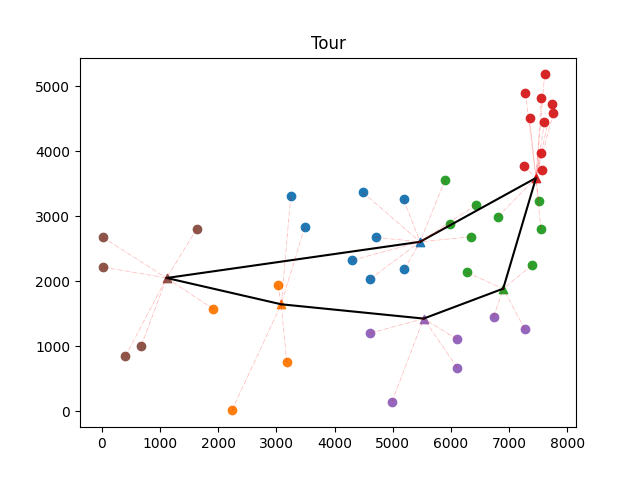
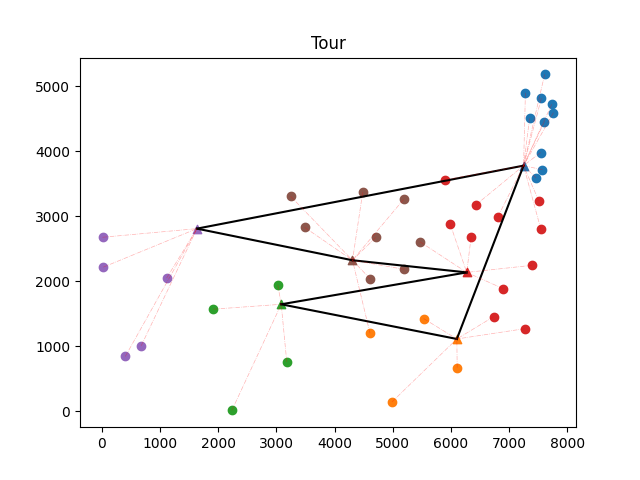
ajustements

diff --git a/src/heuristique.py b/src/heuristique.py
@@ -1,7 +1,25 @@
+from time import time
 from GTSP import GTSP
-from DGTSPPoint import DGTSPPoint
+from DGTSPPoint import DGTSPPoint, aux_n2opt
 import numpy as np
 import heapq as hq
+
+def random_tour(gtsp: GTSP) -> DGTSPPoint:
+    """
+    Computes a random tour.
+    :param gtsp: the GTSP instance
+    :return: the random tour and the corresponding cluster tour
+    """
+    tour = []
+    cluster_tour = []
+    for i in range(len(gtsp.clusters)):
+        tour.append(np.random.choice(gtsp.clusters[i]))
+    np.random.shuffle(tour)
+    for i in range(len(tour)):
+        for j in range(len(gtsp.clusters)):
+            if tour[i] in gtsp.clusters[j]:
+                cluster_tour.append(j)
+    return DGTSPPoint(gtsp, tour, cluster_tour)
 
 def farthest_insertion(gtsp: GTSP) -> DGTSPPoint:
     """
@@ -146,17 +164,54 @@ def RP1_procedure(gtsp: GTSP, tour: list[int], cluster_tour: list[int]) -> tuple
             tour = best_tour
             cluster_tour = best_cluster_tour
     return tour, cluster_tour
+
+def RP1_procedure_paral(gtsp: GTSP, tour: list[int], cluster_tour: list[int]) -> tuple[list[int], list[int]]:
+    """
+    Apply the RP1 procedure to refine a tour (2-opt generalization)
+    :param gtsp: the GTSP instance
+    :param tour: the tour
+    :param cluster_tour: the cluster tour
+    :return: the refined tour and the refined cluster tour
+    """
+    modified = True
+    cur_sol = DGTSPPoint(gtsp, tour, cluster_tour)
+    while modified:
+        modified = False
+        neighbors = cur_sol.neighbors_2opt()
+        for neighbor in neighbors:
+            if neighbor.value[0] < cur_sol.value[0]:
+                cur_sol = neighbor
+                modified = True
+    return cur_sol.tour, cur_sol.cluster_tour
 if __name__ == "__main__":
-    inst = GTSP.from_file("TSP/Instances_TSP/rd100.tsp")
-    tour_f, cluster_tour_f = farthest_insertion(inst)
-    print(tour_f, cluster_tour_f)
-    inst.plot_tour(tour_f, "tmp/tour_farthest.png")
-    tour_frp1, cluster_tour_frp1 = RP1_procedure(inst, tour_f, cluster_tour_f)
-    print(tour_frp1, cluster_tour_frp1)
-    inst.plot_tour(tour_frp1, "tmp/tour_farthest_rp1.png")
-    tour_n, cluster_tour_n = nearest_insertion(inst)
-    print(tour_n, cluster_tour_n)
-    inst.plot_tour(tour_n, "tmp/tour_nearest.png")
-    tour_nrp1, cluster_tour_nrp1 = RP1_procedure(inst, tour_n, cluster_tour_n)
-    print(tour_nrp1, cluster_tour_nrp1)
-    inst.plot_tour(tour_nrp1, "tmp/tour_nearest_rp1.png")
+    name = "pr107"
+    time_start = time()
+    inst = GTSP.from_file(f"TSP/Instances_TSP/{name}.tsp")
+    sol_f = farthest_insertion(inst)
+    tour_f, cluster_tour_f = sol_f.tour, sol_f.cluster_tour
+    sol_n = nearest_insertion(inst)
+    tour_n, cluster_tour_n = sol_n.tour, sol_n.cluster_tour
+    cost_f = inst.cost_time_ratio(tour_f)
+    cost_n = inst.cost_time_ratio(tour_n)
+    if cost_f[0] < cost_n[0]:
+        print("Farthest insertion is better")
+        inst.plot_tour(tour_f, f"tmp/tour_heur_pre_{name}.png")
+        print(cost_f)
+    else:
+        print("Nearest insertion is better")
+        inst.plot_tour(tour_n, f"tmp/tour_heur_pre_{name}.png")
+        print(cost_n)
+    print(f"Time: {time()-time_start}")
+    tour_frp1, cluster_tour_frp1 = RP1_procedure_paral(inst, tour_f, cluster_tour_f)
+    tour_nrp1, cluster_tour_nrp1 = RP1_procedure_paral(inst, tour_n, cluster_tour_n)
+    cost_frp1 = inst.cost_time_ratio(tour_frp1)
+    cost_nrp1 = inst.cost_time_ratio(tour_nrp1)
+    if cost_frp1[0] < cost_nrp1[0]:
+        print("Farthest insertion is better")
+        inst.plot_tour(tour_frp1, f"tmp/tour_heur_{name}.png")
+        print(cost_frp1)
+    else:
+        print("Nearest insertion is better")
+        inst.plot_tour(tour_nrp1, f"tmp/tour_heur_{name}.png")
+        print(cost_nrp1)
+    print(f"Time: {time()-time_start}")

diff --git a/src/TSPgen.py b/src/TSPgen.py
@@ -1,12 +1,14 @@
+from time import time
 import numpy as np
 import networkx as nx
+from GTSP import GTSP
 from TSP import TSP
 from preprocessing import affinity_propagation, k_means, plot_km
 import matplotlib.pyplot as plt
-# try:
-#     from concorde.tsp import TSPSolver
-# except ImportError:
-#     pass
+try:
+    from concorde.tsp import TSPSolver
+except ImportError:
+    pass
 
 def GTSP_to_ATSP(points, labels):
     """
@@ -97,7 +99,7 @@ def TSP_to_file(G, file_path):
         file.write("EDGE_WEIGHT_SECTION\n")
         for i in range(len(G.nodes())):
             for j in range(len(G.nodes())):
-                file.write(str(int(G[i][j]['weight'])) + " ")
+                file.write(str(int(G[i][j]['weight']) // 10) + " ")
             file.write("\n")
         file.write("EOF\n")
 
@@ -150,33 +152,43 @@ def plot_tour(points, labels, tour, file_path=None):
     else:    
         plt.savefig(file_path)
 if __name__ == '__main__':
-    inst = TSP.from_file("TSP/Instances_TSP/PLS_21.tsp")
-    cluster_centers_km, labels_km = k_means(inst.points, n_clusters=4, n_init=100)
+    name = "pr107"
+    time_start = time()
+    inst = TSP.from_file(f"TSP/Instances_TSP/{name}.tsp")
+    instgtsp = GTSP.from_file(f"TSP/Instances_TSP/{name}.tsp")
     # labels_km = [0,3,0,3,1,1,2,1,0,2,2,0,3,1,3,1,1,1,2,0,0]
     # plot_km(points, labels_km, cluster_centers_km)
+    labels_km = []
+    for i in range(len(instgtsp.points)):
+        for c in range(len(instgtsp.clusters)):
+            if i in instgtsp.clusters[c]:
+                labels_km.append(c)
     G = GTSP_to_ATSP(inst.points, labels_km)
     plt.figure()
-    nx.draw(G, pos=inst.points, with_labels=True, font_weight='bold')
-    plt.savefig("tmp/G.png")
+    nx.draw(G, with_labels=True, font_weight='bold')
+    plt.savefig(f"tmp/G_{name}.png")
     H = ATSP_to_TSP(G)
     # Draw the new nodes added to H compared to G
     plt.figure()
     nx.draw(H, pos=nx.spring_layout(H), with_labels=True, nodelist=range(len(G.nodes()), len(H.nodes())), node_color='r', font_weight='bold')
-    plt.savefig("tmp/H.png")
-    TSP_to_file(H, "TSP/Instances_TSP/PLS_21_transf.tsp")
-    # solver = TSPSolver.from_tspfile("TSP/Instances_TSP/PLS_21_transf.tsp")
-    # solution = solver.solve()
-    # print(solution.tour)
-    # tour_atsp = TSPtour_to_ATSPtour(solution.tour)
-    # print(tour_atsp)
-    # # print the clusters of the tour
-    # for i in range(len(tour_atsp)):
-    #     print(labels_km[tour_atsp[i]], end=" ")
-    # print()
-    # tour_gtspt = ATSPtour_to_GTSPtour(tour_atsp, labels_km)
-    # print(tour_gtspt)
-    # plot_tour(inst.points, labels_km, tour_atsp, "tmp/tour_atsp.png")
-    # plot_tour(inst.points, labels_km, tour_gtspt, "tmp/tour_gtspt.png")
+    plt.savefig(f"tmp/H_{name}.png")
+    TSP_to_file(H, f"TSP/Instances_TSP/{name}_transf.tsp")
+    solver = TSPSolver.from_tspfile(f"TSP/Instances_TSP/{name}_transf.tsp")
+    solution = solver.solve()
+    print(solution.tour)
+    tour_atsp = TSPtour_to_ATSPtour(solution.tour)
+    print(tour_atsp)
+    # print the clusters of the tour
+    for i in range(len(tour_atsp)):
+        print(labels_km[tour_atsp[i]], end=" ")
+    print()
+    tour_gtspt = ATSPtour_to_GTSPtour(tour_atsp, labels_km)
+    elapsed_time = time() - time_start
+    print("Elapsed time: ", elapsed_time)
+    print(tour_gtspt)
+    inst.plot_tour(tour_atsp, f"tmp/tour_atsp_{name}.png")
+    instgtsp.plot_tour(tour_gtspt, f"tmp/tour_gtsp_{name}.png")
+    print(instgtsp.cost_time_ratio(tour_gtspt))
 
 
     

diff --git a/src/PLS.py b/src/PLS.py
@@ -19,6 +19,8 @@ def P0(gtsp: GTSP, verbose: int = 0) -> NDTree:
 	p0 = NDTree(gtsp.d, NUMBER_OF_CHILDREN(gtsp.d), MAX_LEAF_SIZE)
 	p0.update(heur.farthest_insertion(gtsp), verbose = True if verbose == 2 else False)
 	p0.update(heur.nearest_insertion(gtsp), verbose = True if verbose == 2 else False)
+	for i in range(20):
+		p0.update(heur.random_tour(gtsp), verbose = True if verbose == 2 else False)
 	return p0
 
 def PLS(gtsp: GTSP, initial_pop: NDTree = None, verbose: int = 0) -> List[DGTSPPoint]:
@@ -71,7 +73,9 @@ def select(gtsp: GTSP, population: List[DGTSPPoint]) -> DGTSPPoint:
 	return best_point
 	
 if __name__ == "__main__":
-	inst = GTSP.from_file("TSP/Instances_TSP/att48.tsp")
+	name = "a280"
+	time_start = time.time()
+	inst = GTSP.from_file(f"TSP/Instances_TSP/{name}.tsp")
 	fi = heur.farthest_insertion(inst)
 	ni = heur.nearest_insertion(inst)
 	print(fi)
@@ -81,9 +85,12 @@ if __name__ == "__main__":
 	print(sols)
 
 	selected = select(inst, sols)
-	print(selected)
-	inst.plot_tour(selected.tour, "tmp/selected.png")
-	for i,s in enumerate(sols):
-		if s != selected:
-			inst.plot_tour(s.tour, "tmp/tour_{}.png".format(i))
+	print(inst.cost_time_ratio(selected.tour))
+	# inst.plot_tour(selected.tour, f"tmp/selected_{name}.png")
+	print(f"Time: {time.time()-time_start}")
+	i = 0
+	for sol in sols:
+		inst.plot_tour(sol.tour, f"tmp/tour_{name}_{i}.png")
+		print(inst.cost_time_ratio(sol.tour))
+		i += 1
 

diff --git a/src/TSP.py b/src/TSP.py
@@ -66,6 +66,11 @@ class TSP:
 
 if __name__ == "__main__":
     inst = TSP.from_file("TSP/Instances_TSP/att48.tsp")
-    inst.plot_instance("tmp/instance.png")
+    inst.plot_instance("tmp/att48.png")
+    inst = TSP.from_file("TSP/Instances_TSP/eil76.tsp")
+    inst.plot_instance("tmp/eil76.png")
+    inst = TSP.from_file("TSP/Instances_TSP/rd100.tsp")
+    inst.plot_instance("tmp/rd100.png")
+
     
     

diff --git a/src/GTSP.py b/src/GTSP.py
@@ -157,8 +157,8 @@ class GTSP:
         base = 10 * (dist_station_1 + dist_station_2)
         dist_metro_p = base
         dist_metro_m = base
-        ratio_metro_p = 0
-        ratio_metro_m = 0
+        ratio_metro_p = 1
+        ratio_metro_m = 1
         prev_station_p = [station_1]
         prev_station_m = [station_1]
         not_arrived_p = True
